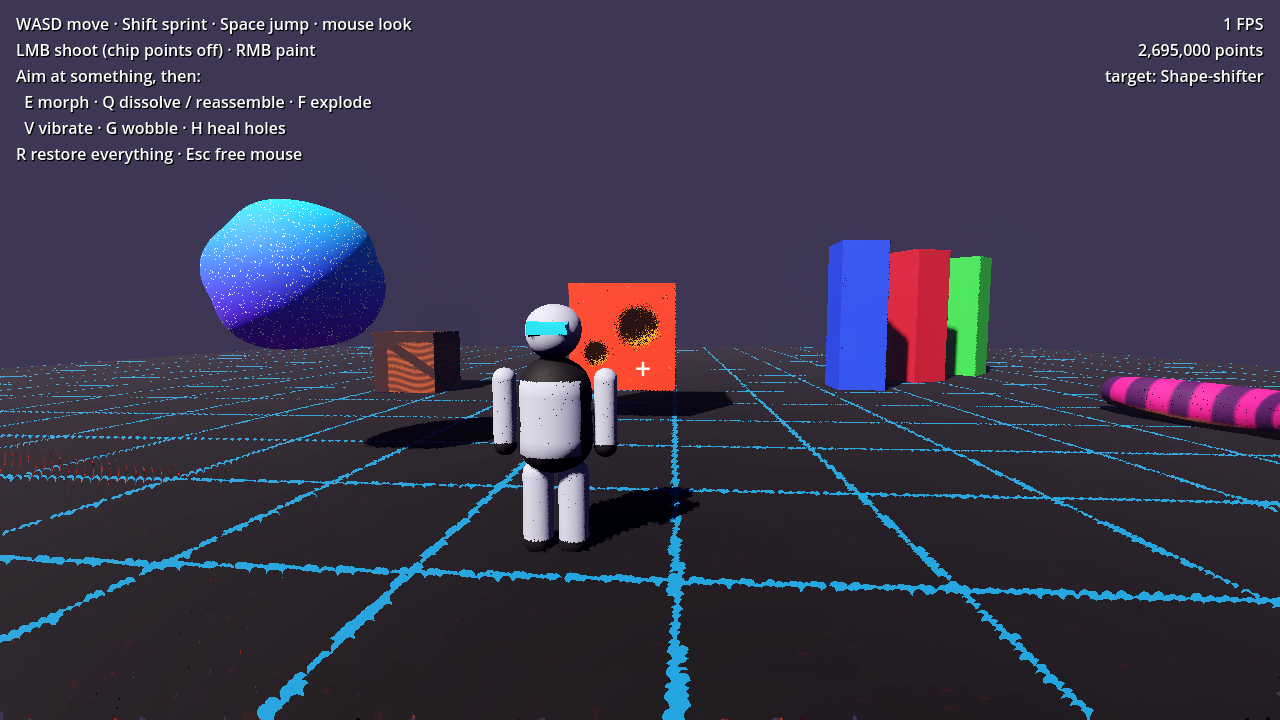
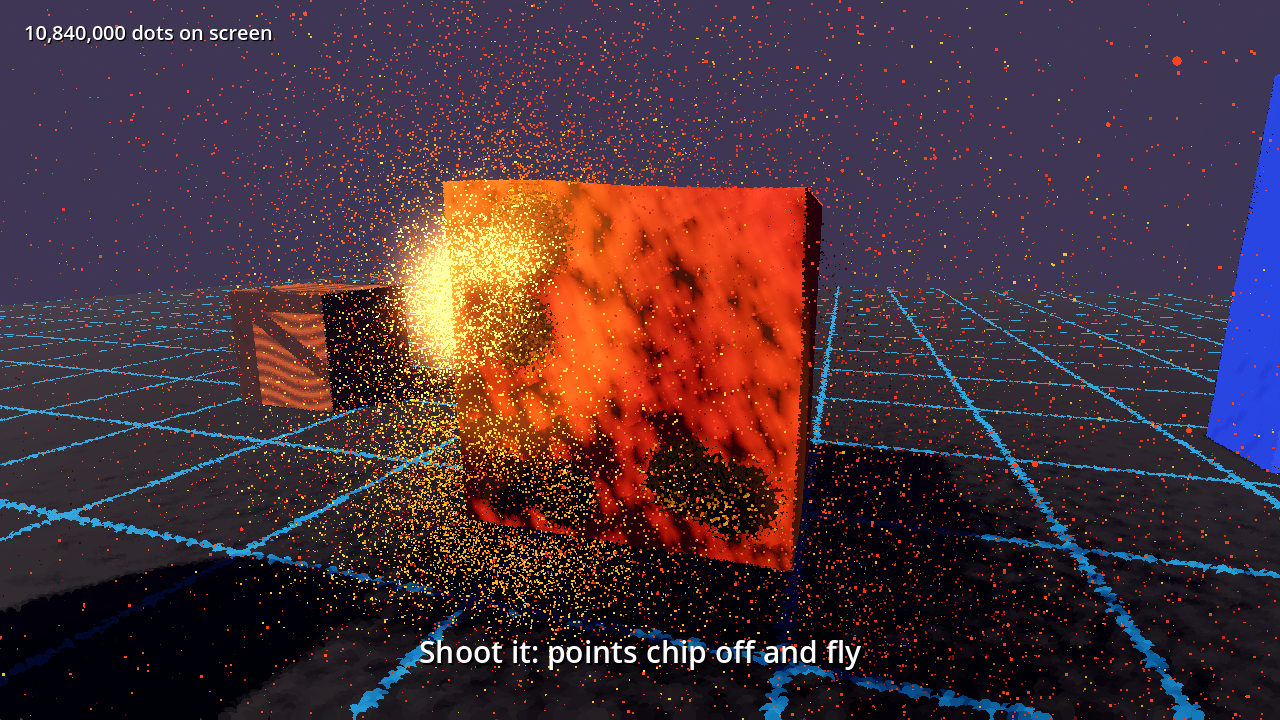
Update README screenshots from the dense build
Claude-Session: https://claude.ai/code/session_016jriRYPT9uucwyBvbxurYF

diff --git a/README.md b/README.md
@@ -11,8 +11,8 @@ text, changing colour on the way.
 
 | | |
 |---|---|
-| ![Demo: player, carved cube with glowing core, skinned worm](docs/demo.png) | ![Dissolving cube](docs/dissolve.png) |
-| ![300k / 200k / 150k points that read as solid meshes](docs/solid_shapes.png) | Everything in these shots is points. Top left: the cube has been shot (its glowing interior shows through), and the worm is a skinned, animated mesh. Top right: a dissolve. Bottom: three point clouds that look like ordinary meshes. |
+| ![A solid cube made of 1.6 million dots](docs/solid_shapes.png) | ![Shooting the cube: dots chip off, glowing core shows](docs/demo.png) |
+| ![Dissolving cube](docs/dissolve.png) | Everything in these shots is dots, 10.8 million in the scene. Top left: an intact 1.6-million-dot cube. Top right: the same cube being shot, with dots flying off and its glowing interior showing. Bottom left: a dissolve. Record your own with `tests/demo_video.tscn` (see below). |
 
 ## Running the demo
 
